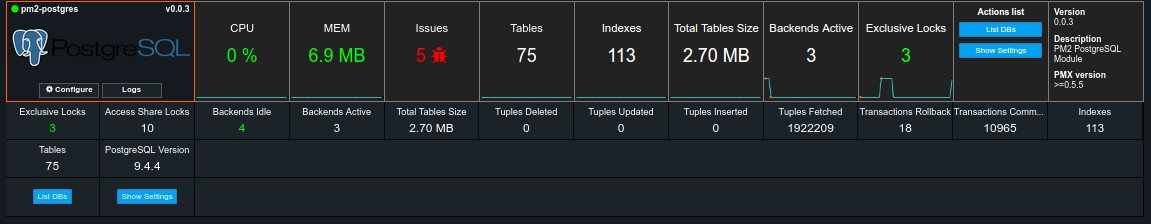
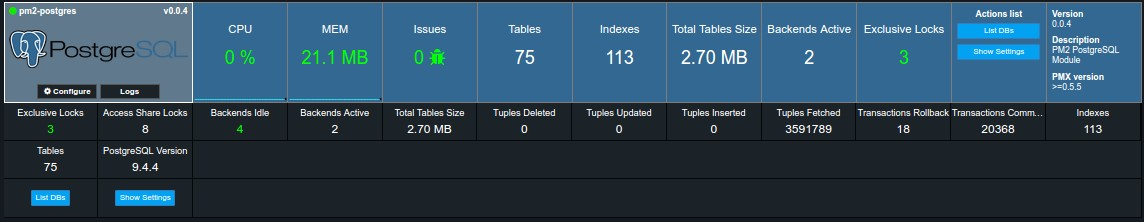
fix colors

diff --git a/app.js b/app.js
@@ -18,7 +18,7 @@ pmx.initModule({
     // 1 = secondary
     // 2 = main border
     // 3 = secondary border
-    theme: ['#141A1F', '#222222', '#FC6400', '#807C7C'],
+    theme: ['#60798c', '#326892', '#ffffff', '#807C7C'],
 
     // Section to show / hide
     el: {
